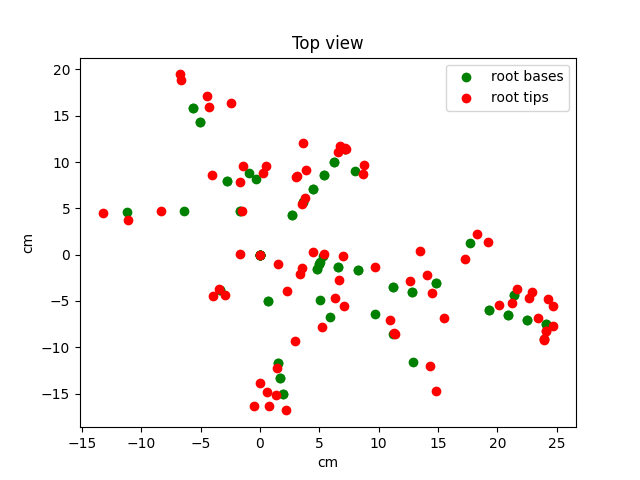
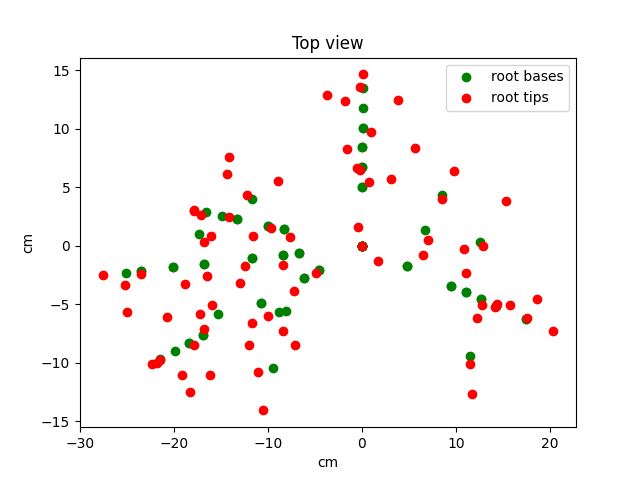
tutorial example extended

diff --git a/tutorial/examples/python/example2a_initializeparams.py b/tutorial/examples/python/example2a_initializeparams.py
@@ -2,62 +2,79 @@
 import sys
 sys.path.append("../../..")
 import plantbox as pb
-
-import math
+import matplotlib.pyplot as plt
+import numpy as np
 
 rs = pb.RootSystem()
-
-# Root random parameter
 p0 = pb.RootRandomParameter(rs)  # with default values,
 p1 = pb.RootRandomParameter(rs)  # all standard deviations are 0
 
 p0.name = "taproot"
 p0.a = 0.2  # [cm] radius
 p0.subType = 1  # [-] index starts at 1
-p0.lb = 1  # [cm] basal zone
+p0.lb = 5  # [cm] basal zone
 p0.la = 10  # [cm] apical zone 
-p0.lmax = 100  # [cm] maximal root length, number of laterals = round((lmax-lb-la)/ln) + 1
-p0.ln = 89. / 19.  # [cm] inter-lateral distance 
-p0.theta = 30. / 180.*math.pi  # [rad]
+p0.lmax = 30  # [cm] maximal root length, number of lateral branching nodes = round((lmax-lb-la)/ln) + 1
+p0.ln = 1.  # [cm] inter-lateral distance (16 branching nodes)  
+p0.theta = 0.  # [rad]
 p0.r = 1  # [cm/day] initial growth rate
-p0.dx = 0.5  # [cm] axial resolution
+p0.dx = 10  # [cm] axial resolution
 p0.successor = [2]  # add successors
 p0.successorP = [1]  # probability that successor emerges
 p0.tropismT = pb.TropismType.gravi  #  
-p0.tropismN = 1.  # [-] strength of tropism
+p0.tropismN = 1.8  # [-] strength of tropism
 p0.tropismS = 0.2  # [rad/cm] maximal bending
 
 p1.name = "lateral"
 p1.a = 0.1  # [cm] radius
 p1.subType = 2  # [1] index starts at 1
-p1.la = 25  # # [cm] apical zone
-p1.las = 10  # [cm] standard deviation of the apical zone
-p1.ln = 0  # [cm] inter-lateral distance 
+p1.lmax = 15  # # [cm] apical zone
+p1.lmaxs = 0.15  # [cm] standard deviation of the apical zone, 10%ce
+p1.theta = 90. / 180.*np.pi  # [rad] 
 p1.r = 2  # initial growth rate
-p1.dx = 0.1  # [cm] axial resolution
-p1.tropismS = 0.3  # [rad/cm] maximal bending
+p1.dx = 1  # [cm] axial resolution
+p1.tropismT = pb.TropismType.gravi  # exo  
+p1.tropismN = 2  # [-] strength of tropism
+p1.tropismS = 0.1  # [rad/cm] maximal bending
 
 rs.setOrganRandomParameter(p0)
 rs.setOrganRandomParameter(p1)
 
-# Seed random parameter (neglecting shoot borne)
 srp = pb.SeedRandomParameter(rs)  # with default values
 srp.seedPos = pb.Vector3d(0., 0., -3.)  # [cm] seed position
-srp.maxB = 100  # [-] number of basal roots
+srp.maxB = 0  # [-] number of basal roots (neglecting basal roots and shoot borne)
 srp.firstB = 10.  # [day] first emergence of a basal root
 srp.delayB = 3.  # [day] delay between the emergence of basal roots
 rs.setRootSystemParameter(srp)
 
 rs.initialize()
-rs.simulate(40)  #  [day]
+
+fig, axes = plt.subplots(1, 3, figsize=(15, 7))
+simtimes = [0, 30, 60, 125]  # the last will emerge at -(lmax/r)*ln(1-(lmax-ln/2)/r) = 122.8 
+for i in range(0, 3):
+
+    rs.simulate(np.diff(simtimes)[i])  #  [day]
+
+    a = axes[i]
+    a.set_xlim([-15, 15.])
+    a.set_ylim([-35., 0.])  # starts at -3 cm, max length 30 cm      
+    a.set_title("after {} days".format(rs.getSimTime()))
+
+    roots = rs.getPolylines()        
+    for root in roots:
+        for j, n in enumerate(root[:-1]):
+            n2 = root[j + 1]
+            a.plot([n.x, n2.x], [n.z, n2.z], "g")
+            
+fig.tight_layout()         
+plt.show()            
+        
 rs.write("../results/example_2a.vtp")
 
-# Some output
-print()
+# Some outputs....
+print(" length", rs.getParameter("length"))
+print("    age", rs.getParameter("age"))
 print("subType", rs.getParameter("subType"))
 print("     la", rs.getParameter("la"))
 print("la_mean", rs.getParameter("la_mean"))
-print("radius", rs.getParameter("radius"))
-print()
-print("length", rs.getParameter("length"))
-print("   age", rs.getParameter("age"))
+print(" radius", rs.getParameter("radius"))

diff --git a/tutorial/examples/python/example2c_lateralspacing.py b/tutorial/examples/python/example2c_lateralspacing.py
@@ -20,7 +20,7 @@ theta = 70 / 180 * math.pi
 
 p0 = pb.RootRandomParameter(rs)
 p0.name, p0.subType, p0.lmax, p0.r, p0.dx, p0.theta = "taproot", 1, 50., 2., dx0, 0.  # parameters as before
-p0.tropismT, p0.tropismN, p0.tropismS = 1, 2, 0.1  # Gravitropism
+p0.tropismT, p0.tropismN, p0.tropismS = pb.TropismType.gravi, 2, 0.1 
 p0.successor, p0.successorP = [2], [1.]  # set up successors
 p0.lns = 0.  # test with other values...
 p0.lb = 2  
@@ -29,7 +29,7 @@ rs.setOrganRandomParameter(p0)
 
 p1 = pb.RootRandomParameter(rs)
 p1.name, p1.subType, p1.lmax, p1.r, p1.dx, p1.theta = "lateral", 2, 30., 1., dx1, theta
-p1.tropismT, p1.tropismN, p1.tropismS = 2, 2, 0.2  # Exotropsim
+p1.tropismT, p1.tropismN, p1.tropismS = pb.TropismType.exo, 2, 0.2
 rs.setOrganRandomParameter(p1)
 
 ln_ = [4., 2.]  # inter lateral distance 
@@ -37,18 +37,10 @@ lnk_ = [-2. / 45., 0, 2. / 45]  # slope
 
 for i, ln in enumerate(ln_):    
     for j, lnk in enumerate(lnk_):        
-    
         rs.reset()  # does not delete parameters
-    
+        
         p0.ln = ln                 
         p0.lnk = ln * lnk  # set up linearly altered spaces
-                    
-        print("lmax", p0.lmax)
-        print("lb", p0.lb)                
-        print("la", p0.la)    
-        print("nob", p0.nob())
-        print("ln", p0.ln)
-        print("ln zone", p0.lmax - p0.la - p0.lb, (p0.nob() - 1) * p0.ln)  
         
         rs.initializeLB(1, 1)
         rs.simulate(100, False)
@@ -64,12 +56,7 @@ for i, ln in enumerate(ln_):
         for n in pl[0]:
              axes[i][j].plot([n.x], [n.z], "r*")            
 
-#         z_ = []
-#         for n in pl[0]:
-#             z_.append(n.z)
-#         axes[i][j].plot(np.diff(z_), "r*");
-        
-        axes[i][j].set_title("$ln$ = {:.2f}, $lnk$ = {:.2f}".format(p0.ln, p0.lnk))  #
+        axes[i][j].set_title("$ln$ = {:.2f}, $lnk$ = {:.2f}".format(p0.ln, p0.lnk))
         axes[i][j].axis('equal')            
 
 fig.tight_layout()         
